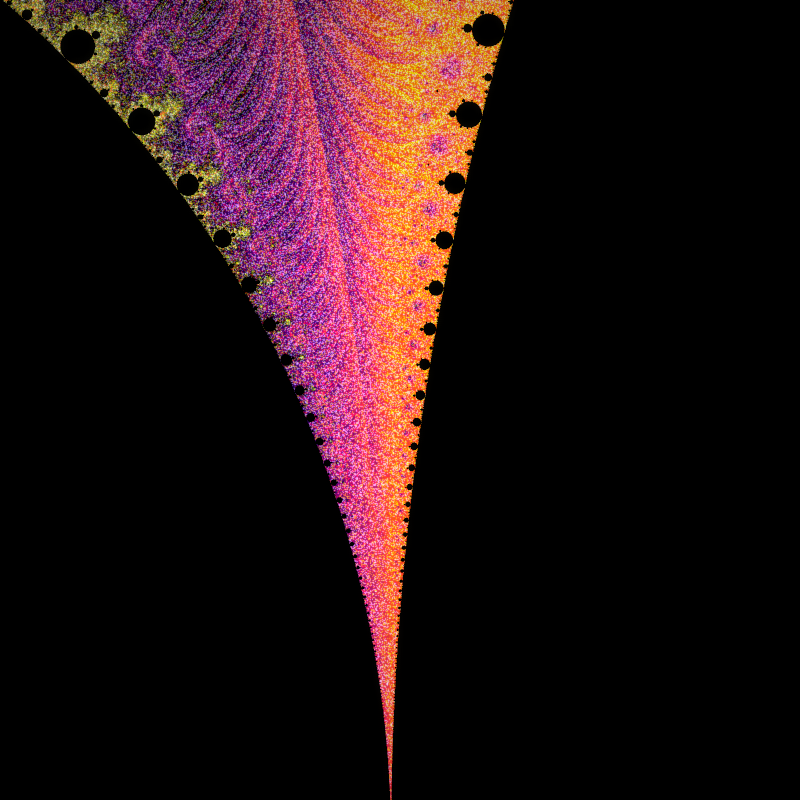
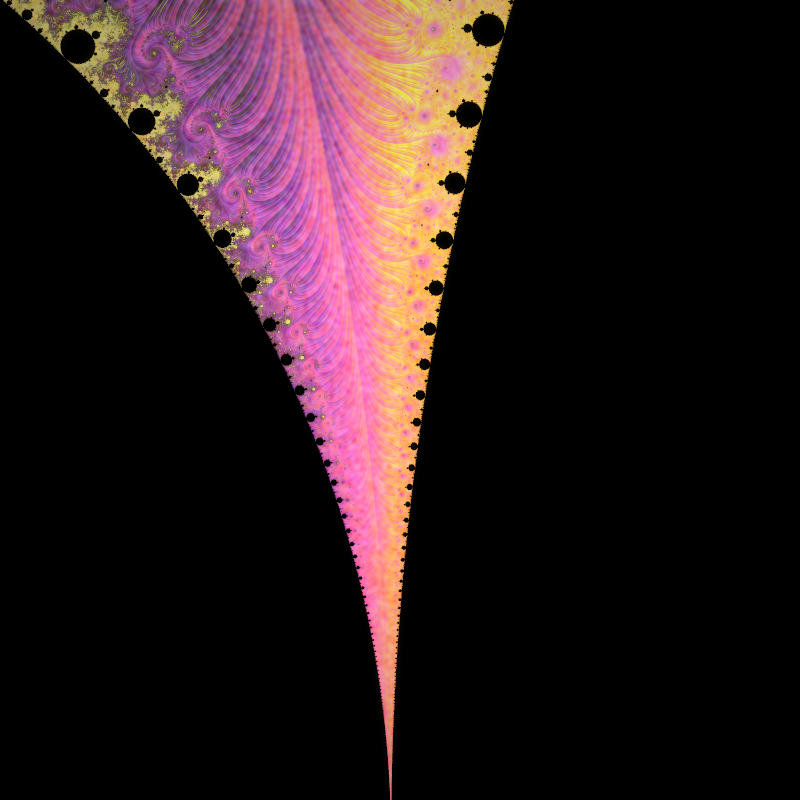
Fix grainy nebula renders at zoomed RGB views
Two issues compounded at zoomed RGB hybrid presets:

  1. The CPU Buddhabrot samples seeds from the whole c-plane (~16 sq
     units). At scale ~0.04 the visible viewport area is ~0.1% of that,
     so most seeds never contribute. Split across three iteration
     channels (RGB mode), each channel got only a handful of hits per
     pixel -> visible chromatic shot noise.

  2. The renderer uploaded the raw density buffer with no smoothing,
     even though Buddhabrot density is inherently a smooth marginal
     distribution -- so the per-pixel speckle is purely sampling noise
     and a small blur is the correct denoiser.

Changes:

  - main.cpp: add a separable 3-tap box blur on the nebula buffer
    after rendering. Apply 1 pass for mono mode, 4 passes for RGB
    (which has 3x the per-channel noise). The buddhabrot signal is
    smooth at the pixel scale so detail loss is invisible.

  - cli.cpp: bump plasma-storm samples 12M -> 40M (scale ~0.09).
    nebula-elephant: switch from RGB (which needed >>100M for clean)
    to mono with cyan accent. lifetime-spectrum still demonstrates the
    RGB modality at whole-set scale where it works cleanly.

Re-rendered presets/plasma-storm.png, presets/nebula-elephant.png,
showcase_plasma-storm.png, showcase_nebula-elephant.png, and the
presets.png montage. All 231 tests still pass.

Changed region(s): [[0.0, 0.0, 0.6562, 0.9688]]

diff --git a/src/main.cpp b/src/main.cpp
@@ -68,6 +68,39 @@ int runRender(const fractal::RenderConfig& cfg) {
     //   mono (default) -> single-channel density tinted by uNebulaColor
     //   rgb            -> 3-channel R/G/B from three iter thresholds (lifetime)
     // Skip when --deep (CPU buddhabrot is float-precision, no df64 alignment).
+    auto smoothBuffer = [](std::vector<uint8_t>& rgb, int W, int H) {
+        // Separable 3-tap box blur on the nebula RGB buffer. Buddhabrot density
+        // is inherently smooth (it's a marginal of a continuous distribution),
+        // so the high-frequency speckle in the rendered buffer is purely shot
+        // noise from sparse sampling -- especially in RGB mode where each
+        // channel splits the sample budget further. A tiny box blur absorbs
+        // that noise without softening the underlying density structure.
+        if ((int)rgb.size() != W * H * 3) return;
+        std::vector<uint8_t> tmp(rgb.size());
+        for (int y = 0; y < H; ++y) {
+            for (int x = 0; x < W; ++x) {
+                int xm = std::max(0, x - 1), xp = std::min(W - 1, x + 1);
+                for (int c = 0; c < 3; ++c) {
+                    int s = rgb[(y * W + xm) * 3 + c]
+                          + rgb[(y * W + x ) * 3 + c]
+                          + rgb[(y * W + xp) * 3 + c];
+                    tmp[(y * W + x) * 3 + c] = (uint8_t)(s / 3);
+                }
+            }
+        }
+        for (int y = 0; y < H; ++y) {
+            int ym = std::max(0, y - 1), yp = std::min(H - 1, y + 1);
+            for (int x = 0; x < W; ++x) {
+                for (int c = 0; c < 3; ++c) {
+                    int s = tmp[(ym * W + x) * 3 + c]
+                          + tmp[(y  * W + x) * 3 + c]
+                          + tmp[(yp * W + x) * 3 + c];
+                    rgb[(y * W + x) * 3 + c] = (uint8_t)(s / 3);
+                }
+            }
+        }
+    };
+
     bool need_nebula = !cfg.deep &&
                        (cfg.nebula_accent > 0.0 || cfg.nebula_hue_shift != 0.0 ||
                         cfg.nebula_bloom > 0.0);
@@ -85,6 +118,15 @@ int runRender(const fractal::RenderConfig& cfg) {
                   << (cfg.nebula_rgb ? " (RGB lifetime mode)" : " (mono density)")
                   << "...\n";
         auto density = fractal::renderBuddhabrot(nb);
+        // RGB mode splits the sample budget across three channels, so per-
+        // channel shot noise is much worse -- especially at zoomed views
+        // where only a fraction of seeds land in the viewport. Stack passes
+        // (each is a 1x3 separable box; 4 passes -> ~gaussian sigma ~2.5
+        // pixels) when in RGB mode to absorb the chromatic speckle. The
+        // buddhabrot density is smooth at the pixel scale anyway so detail
+        // loss from blurring is invisible.
+        int passes = cfg.nebula_rgb ? 4 : 1;
+        for (int i = 0; i < passes; ++i) smoothBuffer(density, cfg.width, cfg.height);
         r.setNebulaTexture(density, cfg.width, cfg.height);
     } else {
         r.setNebulaTexture({}, 0, 0);

diff --git a/src/cli.cpp b/src/cli.cpp
@@ -318,11 +318,17 @@ bool applyPreset(const std::string& name, VideoConfig& c, std::string& palette_s
     // nebula-elephant: Mandelbrot elephant valley with 3-channel RGB nebula
     // tracing trunks in different orbit-lifetime bands. Rich multi-hue wisps.
     else if (name == "nebula-elephant") {
+        // Mono mode at this scale: RGB lifetime-spectrum at scale 0.04 needs
+        // hundreds of millions of samples per channel to read smooth (the
+        // visible plane is ~0.1% of whole-set area, split three ways). Mono
+        // single-channel is well within reach at 40M and gives clean cyan
+        // wisps tracing the elephant trunks. lifetime-spectrum already shows
+        // the RGB modality at whole-set scale where it works cleanly.
         mandel(-0.7454, 0.113, 0.04, 2000, "noir");
         c.interp = InterpMode::Oklab; c.bloom = 0.4;
-        c.nebula_rgb = true; c.nebula_accent = 1.4;
-        c.nebula_r = 5000; c.nebula_g = 400; c.nebula_b = 40;
-        c.nebula_accent_samples = 14.0;
+        c.nebula_accent = 1.5;
+        c.nebula_color = {0.4f, 0.85f, 1.0f}; // cool cyan wisps
+        c.nebula_accent_samples = 40.0;
     }
     // dragon-storm: Julia twin-dragon zoomed off-center so the asymmetric
     // buddhabrot fills the void. Density-driven bloom turns each spiral core
@@ -376,7 +382,10 @@ bool applyPreset(const std::string& name, VideoConfig& c, std::string& palette_s
         c.interp = InterpMode::Oklab; c.bloom = 0.4;
         c.nebula_rgb = true; c.nebula_accent = 0.8;
         c.nebula_r = 6000; c.nebula_g = 500; c.nebula_b = 50;
-        c.nebula_accent_samples = 12.0;
+        // RGB nebula at zoom is sample-hungry per channel (see nebula-elephant).
+        // At scale ~0.09, 40M samples gets the chromatic mist smooth instead of
+        // reading as shot noise.
+        c.nebula_accent_samples = 40.0;
         c.vignette = 0.3;
     }
     // Other iteration formulas (--formula). SAC coloring carries over to all the